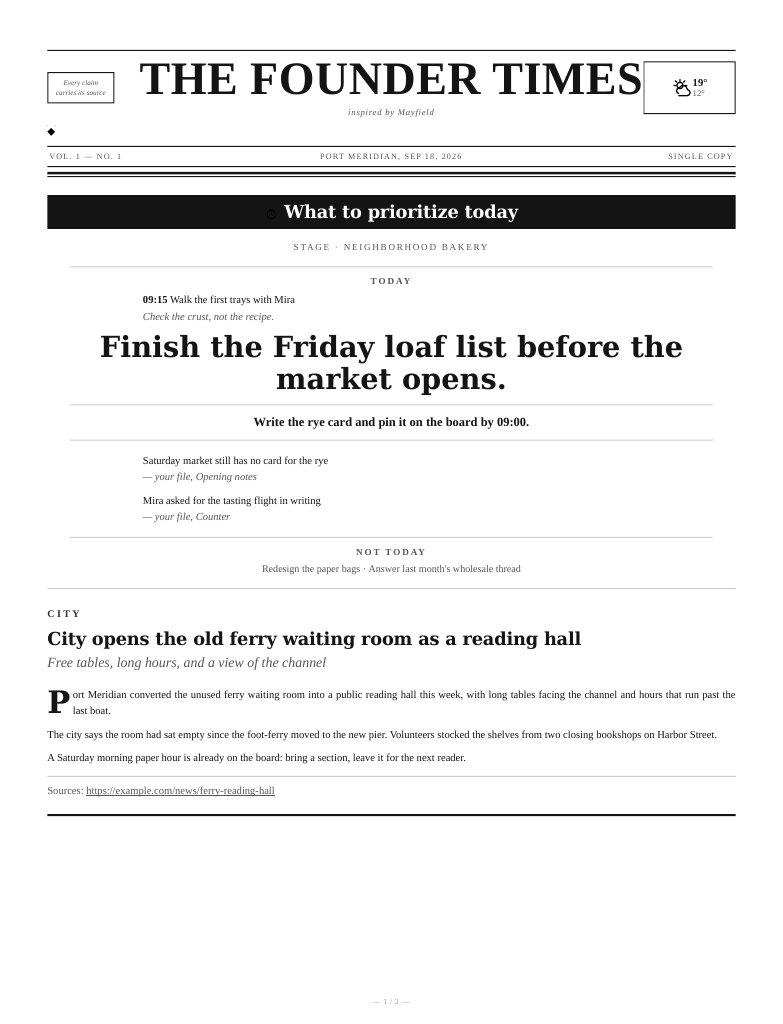
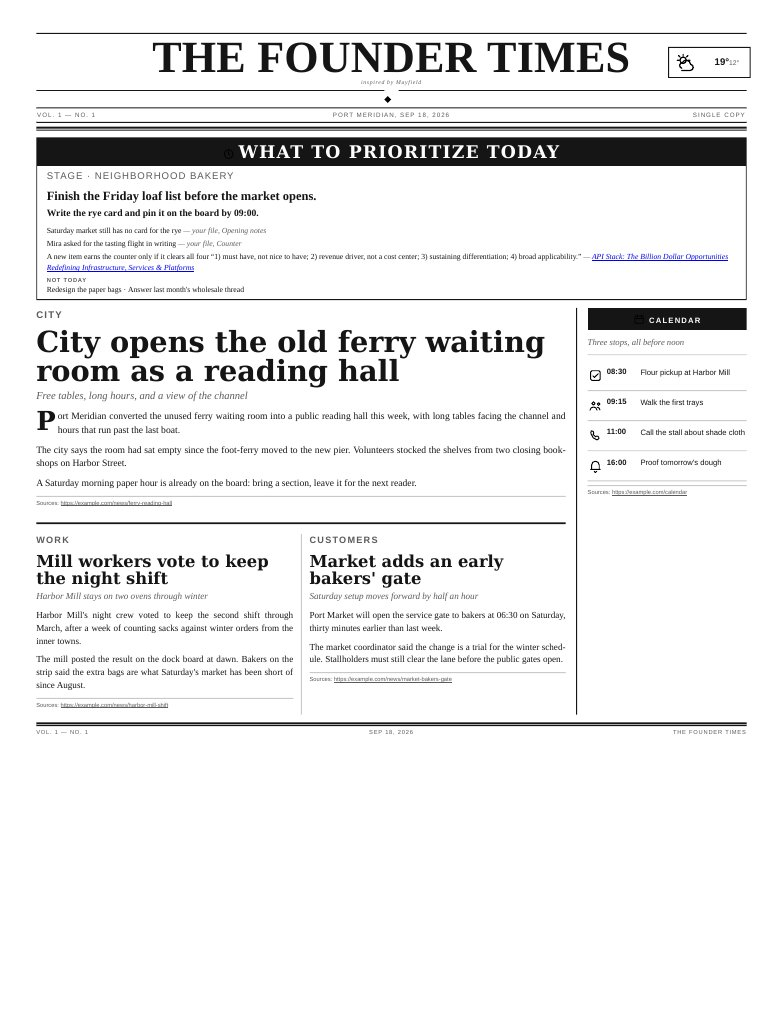
docs: show the one-page founder edition

Changed region(s): [[0.0307, 0.0312, 0.9808, 0.7812]]

diff --git a/pt-edition/template.html b/pt-edition/template.html
@@ -22,7 +22,7 @@
   body {
     margin: 0; color: var(--ink);
     font-family: Georgia, "Times New Roman", "Liberation Serif", serif;
-    font-size: 9px; line-height: 1.32;
+    font-size: 10px; line-height: 1.4;
   }
 
   .rule-top { border: 0; border-top: 1px solid var(--ink); margin: 0 0 4px; }
@@ -61,28 +61,28 @@
 
   .priority-wrap { margin: 0 0 8px; }
   .section--priority {
-    display: table; width: 100%; table-layout: fixed; padding: 0;
+    display: block; width: 100%; padding: 0 0 4px;
     border: 1px solid var(--ink);
   }
   .section--priority h2 {
-    display: table-cell; width: 112px; padding: 7px 8px; vertical-align: middle;
+    display: block; width: auto; margin: 0; padding: 5px 8px;
     background: var(--ink); color: var(--paper);
-    font: 700 8px/1.25 Arial, sans-serif; letter-spacing: 1.2px;
+    font: 700 8px/1.2 Arial, sans-serif; letter-spacing: 1.2px;
     text-align: center; text-transform: uppercase;
   }
   .section--priority .headline, .section--priority .priority-step,
   .section--priority .priority-list, .section--priority .priority-stage,
   .section--priority .priority-note, .section--priority .priority-inline,
-  .section--priority h3 { margin-left: 124px; margin-right: 8px; }
+  .section--priority h3 { margin-left: 10px; margin-right: 10px; }
   .section--priority .headline {
     margin-top: 6px; margin-bottom: 3px; color: var(--ink);
-    font-size: 12px; font-style: normal; font-weight: 700; line-height: 1.12;
+    font-size: 13px; font-style: normal; font-weight: 700; line-height: 1.15;
   }
   .priority-stage { margin-top: 4px; margin-bottom: 2px; color: var(--ink-soft); font: 6px Arial, sans-serif; letter-spacing: 1px; text-transform: uppercase; }
   .section--priority h3 { margin-top: 3px; margin-bottom: 1px; color: var(--ink-soft); font: 700 6px Arial, sans-serif; letter-spacing: .8px; }
-  .priority-note { margin-top: 0; margin-bottom: 2px; font-size: 7px; }
-  .priority-step { margin-top: 3px; margin-bottom: 3px; font-size: 8px; font-weight: 700; }
-  .priority-list, .priority-inline { margin-top: 0; margin-bottom: 4px; padding: 0; list-style: none; font-size: 7px; }
+  .priority-note { margin-top: 0; margin-bottom: 3px; font-size: 8px; }
+  .priority-step { margin-top: 4px; margin-bottom: 4px; font-size: 9px; font-weight: 700; }
+  .priority-list, .priority-inline { margin-top: 0; margin-bottom: 4px; padding: 0; list-style: none; font-size: 8px; }
   .priority-list li { margin-bottom: 2px; }
   .priority-list .src { color: var(--ink-soft); font-style: italic; }
   .priority-inline li { display: inline; }
@@ -90,19 +90,19 @@
   .priority-draft { white-space: pre-line; }
 
   .page-body { display: table; width: 100%; table-layout: fixed; }
-  .news-column { display: table-cell; width: 75%; padding-right: 10px; vertical-align: top; }
-  .calendar-rail { display: table-cell; width: 25%; padding-left: 10px; border-left: 1px solid var(--ink); vertical-align: top; }
-  .top-row { margin: 0 0 8px; padding: 0 0 8px; border-bottom: 2px solid var(--ink); }
+  .news-column { display: table-cell; width: 76%; padding-right: 11px; vertical-align: top; }
+  .calendar-rail { display: table-cell; width: 24%; padding-left: 11px; border-left: 1px solid var(--ink); vertical-align: top; }
+  .top-row { margin: 0 0 10px; padding: 0 0 10px; border-bottom: 2px solid var(--ink); }
   .section { margin: 0; padding: 0; }
   .section h2 {
     margin: 0 0 3px; font-family: "Big Caslon", Didot, "Bodoni MT", Georgia, serif;
-    font-size: 16px; font-weight: 900; line-height: 1.05; break-after: avoid;
+    font-size: 18px; font-weight: 900; line-height: 1.05; break-after: avoid;
   }
   .kicker { margin: 0 0 3px; color: var(--ink-soft); font: 700 6px Arial, sans-serif; letter-spacing: 1.3px; text-transform: uppercase; }
-  .headline { margin: 0 0 4px; color: var(--ink-soft); font-size: 8px; font-style: italic; line-height: 1.25; }
-  .section p { margin: 0 0 4px; font-size: 8.2px; line-height: 1.32; text-align: justify; hyphens: auto; }
-  .lead-cell h2 { font-size: 24px; line-height: 1; }
-  .lead-cell .headline { font-size: 10px; }
+  .headline { margin: 0 0 5px; color: var(--ink-soft); font-size: 9.5px; font-style: italic; line-height: 1.3; }
+  .section p { margin: 0 0 6px; font-size: 10px; line-height: 1.42; text-align: justify; hyphens: auto; }
+  .lead-cell h2 { font-size: 30px; line-height: 1; }
+  .lead-cell .headline { font-size: 11px; }
   .lead-cell .dropcap {
     float: left; margin: .08em .08em 0 0;
     font-family: "Bodoni MT", Didot, Georgia, serif;
@@ -117,7 +117,8 @@
   .news-pair-cell { display: table-cell; width: 50%; vertical-align: top; }
   .news-pair-cell:first-child { padding-right: 8px; }
   .news-pair-cell + .news-pair-cell { padding-left: 8px; border-left: 1px solid var(--hairline); }
-  .news-pair-cell h2 { font-size: 14px; }
+  .news-pair-cell h2 { font-size: 17px; }
+  .news-pair-cell .section p { font-size: 9.5px; line-height: 1.4; }
   .story-photo { margin: 3px 0 5px; break-inside: avoid; page-break-inside: avoid; }
   .story-photo img { display: block; width: 100%; height: auto; border: 1px solid var(--hairline); }
   .story-photo figcaption { margin-top: 2px; color: var(--ink-soft); font-size: 6px; font-style: italic; }
@@ -128,13 +129,13 @@
     font: 700 8px Arial, sans-serif; letter-spacing: 1.2px;
     text-align: center; text-transform: uppercase;
   }
-  .section--calendar .headline { margin: 5px 0; padding-bottom: 5px; border-bottom: 1px solid var(--hairline); font-size: 8px; }
+  .section--calendar .headline { margin: 6px 0; padding-bottom: 6px; border-bottom: 1px solid var(--hairline); font-size: 9px; }
   .cal-list { margin: 0; padding: 0; }
-  .cal-item { display: table; width: 100%; padding: 5px 0; border-bottom: 1px solid var(--hairline); }
+  .cal-item { display: table; width: 100%; padding: 7px 0; border-bottom: 1px solid var(--hairline); }
   .cal-icon-wrap, .cal-time, .cal-title { display: table-cell; vertical-align: top; }
   .cal-icon-wrap { width: 17px; padding-right: 3px; color: var(--ink-soft); }
-  .cal-time { width: 34px; font: 700 7px Arial, sans-serif; }
-  .cal-title { font: 7px/1.25 Arial, sans-serif; }
+  .cal-time { width: 35px; font: 700 8px Arial, sans-serif; }
+  .cal-title { font: 8px/1.3 Arial, sans-serif; }
   .desk-icon { display: inline-block; margin-right: 4px; vertical-align: -2px; }
   .wx-icon, .cal-icon, .mail-icon { display: block; }
 

diff --git a/tests/test_repo_contract.py b/tests/test_repo_contract.py
@@ -811,6 +811,10 @@ class TestSkills:
         assert "calendar-rail" in template
         assert "news-pair" in template
         assert "break-inside: avoid" in template
+        # A long localized focus title must be a horizontal bar. Making it
+        # a narrow table cell stacked the English title into five lines and
+        # turned the card into a black vertical slab in the real PDF.
+        assert ".section--priority h2 {\n    display: block;" in template
         # Never display:none an element that gets a background from
         # another rule -- WeasyPrint 62.3 paints the background anyway
         # (measured: an empty black stripe where the "hidden" h2 was).
